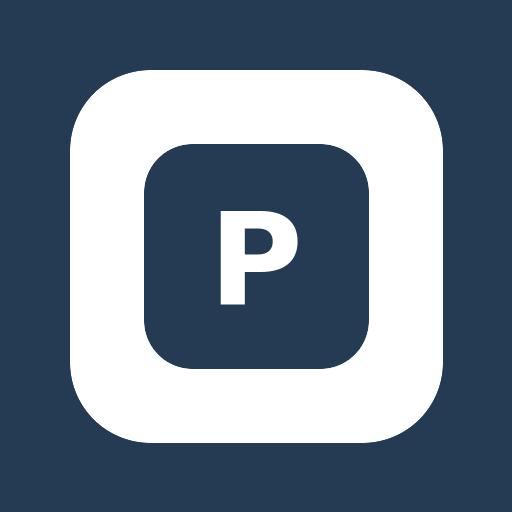
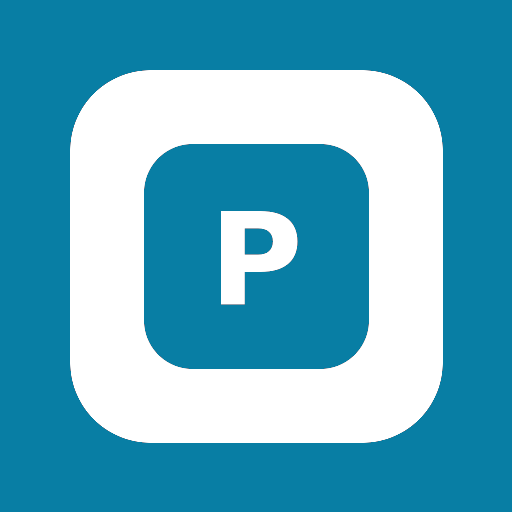
Add files via upload

diff --git a/app.js b/app.js
@@ -77,31 +77,52 @@ function renderHome(){
   const next=pending.slice(0,5), nearest=pending[0];
   const monthPct=a.monthTotal?Math.min(100,Math.round((a.monthPaid/a.monthTotal)*100)):0;
   return `
-  <div class="premium-home">
-    <div class="hero-grid premium-hero-grid">
-      <div class="hero-card luxury-hero">
-        <div class="hero-topline">
-          <div><p class="eyebrow" style="color:#DDE8F1">Total sisa tagihan</p><div class="big-money">${money(a.totalOutstanding)}</div></div>
-          <div class="hero-orb">Rp</div>
-        </div>
-        <div class="hero-bottom">
-          <div class="hero-stats">
-            <span><b>${a.unpaidCount}</b><small>Belum lunas</small></span>
-            <span><b>${a.providersCount}</b><small>Layanan aktif</small></span>
-            <span><b>${monthPct}%</b><small>Bulan ini terbayar</small></span>
-          </div>
-          ${nearest?`<div class="next-mini"><span>Tagihan berikutnya</span><strong>${dateFmt(nearest.dueDate,{day:'numeric',month:'short'})} · ${money(nearest.amount)}</strong></div>`:''}
-        </div>
+  <div class="fintech-home">
+    <section class="wallet-hero">
+      <div class="wallet-headline">
+        <div class="wallet-brand"><span class="wallet-logo">P</span><span>Pinjam</span></div>
+        <span class="wallet-secure">● Tersinkron</span>
       </div>
-      <div class="metric-card premium-metric"><div class="metric-icon">◷</div><div><p class="eyebrow">Bulan ini</p><strong>${money(a.monthTotal)}</strong><p class="muted tiny">${a.monthCount} tagihan</p></div><div class="mini-progress"><i style="width:${monthPct}%"></i></div></div>
-      <div class="metric-card premium-metric"><div class="metric-icon">✓</div><div><p class="eyebrow">Sudah dibayar</p><strong>${money(a.monthPaid)}</strong><p class="muted tiny">Sisa ${money(a.monthUnpaid)}</p></div><span class="metric-badge">${monthPct}%</span></div>
-    </div>
-    ${d.vario?.remaining>0?`<div class="section"><div class="notice premium-notice"><span class="notice-icon">◆</span><div><strong>Vario 160 dicatat terpisah</strong><br>Sisa pokok <b>${money(d.vario.remaining)}</b>. Nilai ini tidak dicampur ke total PayLater/pinjaman agar konsisten dengan spreadsheet Anda.</div></div></div>`:''}
-    <div class="section content-grid premium-content-grid">
-      <div><div class="section-head"><div><h2>Tagihan terdekat</h2><p>Prioritas pembayaran yang perlu diperhatikan.</p></div><button class="link-btn" data-go="bills">Lihat semua</button></div><div class="panel bill-list premium-bill-panel">${next.length?next.map(billRow).join(''):'<div class="empty">Tidak ada tagihan belum lunas.</div>'}</div></div>
-      <div><div class="section-head"><div><h2>Sisa per layanan</h2><p>Komposisi kewajiban aktif.</p></div></div><div class="panel provider-list premium-provider-panel">${providerRows(a.providerOutstanding)}</div></div>
-    </div>
+      <div class="wallet-balance">
+        <span>Total sisa tagihan</span>
+        <strong>${money(a.totalOutstanding)}</strong>
+        <small>${a.unpaidCount} tagihan belum lunas · ${a.providersCount} layanan aktif</small>
+      </div>
+      <div class="wallet-mini-grid">
+        <div><span>Bulan ini</span><strong>${money(a.monthTotal)}</strong></div>
+        <div><span>Sudah dibayar</span><strong>${money(a.monthPaid)}</strong></div>
+        <div><span>Progress</span><strong>${monthPct}%</strong></div>
+      </div>
+      ${nearest?`<div class="wallet-next"><div><span>Tagihan berikutnya</span><strong>${esc(nearest.provider)}</strong></div><div><span>${dateFmt(nearest.dueDate,{day:'numeric',month:'short'})}</span><strong>${money(nearest.amount)}</strong></div></div>`:''}
+    </section>
+
+    <section class="fintech-surface">
+      <div class="finance-shortcuts">
+        <button data-go="bills"><span class="shortcut-icon">▤</span><b>Tagihan</b><small>Lihat semua</small></button>
+        <button id="homeAddBtn"><span class="shortcut-icon">＋</span><b>Tambah</b><small>Pinjaman baru</small></button>
+        <button data-go="stats"><span class="shortcut-icon">⌁</span><b>Statistik</b><small>Proyeksi</small></button>
+        <button data-go="settings"><span class="shortcut-icon">⚙</span><b>Lainnya</b><small>Pengaturan</small></button>
+      </div>
+
+      ${d.vario?.remaining>0?`<div class="vario-strip"><span class="vario-icon">V</span><div><strong>Vario 160 dicatat terpisah</strong><small>Sisa pokok ${money(d.vario.remaining)}</small></div><span class="chev">›</span></div>`:''}
+
+      <div class="section fintech-section">
+        <div class="section-head"><div><h2>Tagihan terdekat</h2><p>Prioritas pembayaran berikutnya.</p></div><button class="link-btn" data-go="bills">Lihat semua</button></div>
+        <div class="transaction-panel">${next.length?next.map(fintechBillRow).join(''):'<div class="empty">Tidak ada tagihan belum lunas.</div>'}</div>
+      </div>
+
+      <div class="section fintech-section">
+        <div class="section-head"><div><h2>Sisa per layanan</h2><p>Komposisi kewajiban aktif.</p></div></div>
+        <div class="provider-fintech-card">${providerRows(a.providerOutstanding)}</div>
+      </div>
+    </section>
   </div>`;
+}
+
+function fintechBillRow(x){
+  const [label,cls]=statusInfo(x), dt=new Date(`${x.dueDate}T00:00:00+08:00`);
+  const dueText=x.daysUntil===0?'Hari ini':x.daysUntil<0?`${Math.abs(x.daysUntil)} hari lewat`:dateFmt(x.dueDate,{day:'numeric',month:'short'});
+  return `<div class="txn-row" data-item="${esc(x.id)}"><div class="txn-date"><b>${dt.getDate()}</b><span>${new Intl.DateTimeFormat('id-ID',{month:'short'}).format(dt).toUpperCase()}</span></div><div class="txn-copy"><strong>${esc(x.provider)}</strong><span>${esc(x.name)} · ${dueText}</span></div><div class="txn-value"><strong>${money(x.amount)}</strong><span class="status ${cls}">${label}</span></div><span class="txn-chevron">›</span></div>`;
 }
 
 function billRow(x){ const [label,cls]=statusInfo(x), dt=new Date(`${x.dueDate}T00:00:00+08:00`); return `<div class="bill-row" data-item="${esc(x.id)}"><div class="date-chip">${dt.getDate()}<small>${new Intl.DateTimeFormat('id-ID',{month:'short'}).format(dt).toUpperCase()}</small></div><div class="bill-main"><strong>${esc(x.provider)}</strong><span>${esc(x.name)}</span></div><div class="bill-money">${money(x.amount)}<small>${x.daysUntil===0?'Hari ini':x.daysUntil<0?`${Math.abs(x.daysUntil)} hari lewat`:dateFmt(x.dueDate,{day:'numeric',month:'short'})}</small></div><span class="status ${cls}">${label}</span></div>`; }
@@ -112,35 +133,53 @@ function renderBills(){
   const providers=[...new Set(items.map(x=>x.provider))].sort();
   const filtered=items.filter(x=>(state.filter.month==='ALL'||monthKey(x.dueDate)===state.filter.month)&&(state.filter.provider==='ALL'||x.provider===state.filter.provider)&&(state.filter.status==='ALL'||(state.filter.status==='PAID'?x.status==='Lunas':x.status!=='Lunas'))).sort((a,b)=>a.dueDate.localeCompare(b.dueDate));
   const total=filtered.reduce((n,x)=>n+Number(x.amount||0),0), paid=filtered.filter(x=>x.status==='Lunas').length, unpaid=filtered.length-paid;
-  return `<div class="bills-page">
-    <div class="bills-summary">
-      <div><span>Tagihan tampil</span><strong>${filtered.length}</strong></div>
-      <div><span>Total nominal</span><strong>${money(total)}</strong></div>
-      <div><span>Lunas</span><strong>${paid}</strong></div>
-      <div><span>Belum lunas</span><strong>${unpaid}</strong></div>
-    </div>
-    <div class="toolbar premium-toolbar"><label class="field-inline">Bulan <select id="monthFilter"><option value="ALL">Semua</option>${months.map(m=>`<option value="${m}" ${m===state.filter.month?'selected':''}>${monthLabel(m)}</option>`).join('')}</select></label><label class="field-inline">Sumber <select id="providerFilter"><option value="ALL">Semua</option>${providers.map(p=>`<option ${p===state.filter.provider?'selected':''}>${esc(p)}</option>`).join('')}</select></label><label class="field-inline">Status <select id="statusFilter"><option value="ALL">Semua</option><option value="UNPAID" ${state.filter.status==='UNPAID'?'selected':''}>Belum lunas</option><option value="PAID" ${state.filter.status==='PAID'?'selected':''}>Lunas</option></select></label></div>
-    <div class="compact-bills">${filtered.length?filtered.map(x=>{const [l,c]=statusInfo(x),dt=new Date(`${x.dueDate}T00:00:00+08:00`);return `<div class="compact-bill" data-item="${esc(x.id)}"><div class="compact-date"><b>${dt.getDate()}</b><span>${new Intl.DateTimeFormat('id-ID',{month:'short'}).format(dt).toUpperCase()}</span></div><div class="compact-main"><strong>${esc(x.provider)}</strong><span>${esc(x.name)}</span></div><div class="compact-amount"><strong>${money(x.amount)}</strong><span>${dateFmt(x.dueDate,{day:'numeric',month:'short'})}</span></div><span class="status ${c}">${l}</span><span class="compact-chevron">›</span></div>`}).join(''):'<div class="panel empty">Tidak ada tagihan pada filter ini.</div>'}</div>
+  return `<div class="fintech-page bills-page-v14">
+    <section class="page-blue-summary">
+      <p class="eyebrow">Ringkasan tagihan</p>
+      <div class="blue-summary-main"><div><span>Total nominal</span><strong>${money(total)}</strong></div><div class="summary-count"><b>${filtered.length}</b><span>tagihan tampil</span></div></div>
+      <div class="summary-inline"><span><b>${paid}</b> lunas</span><span><b>${unpaid}</b> belum lunas</span></div>
+    </section>
+
+    <section class="page-white-surface">
+      <div class="filter-chips">
+        <label><span>Bulan</span><select id="monthFilter"><option value="ALL">Semua</option>${months.map(m=>`<option value="${m}" ${m===state.filter.month?'selected':''}>${monthLabel(m)}</option>`).join('')}</select></label>
+        <label><span>Sumber</span><select id="providerFilter"><option value="ALL">Semua</option>${providers.map(p=>`<option ${p===state.filter.provider?'selected':''}>${esc(p)}</option>`).join('')}</select></label>
+        <label><span>Status</span><select id="statusFilter"><option value="ALL">Semua</option><option value="UNPAID" ${state.filter.status==='UNPAID'?'selected':''}>Belum lunas</option><option value="PAID" ${state.filter.status==='PAID'?'selected':''}>Lunas</option></select></label>
+      </div>
+      <div class="transaction-panel bills-transactions">${filtered.length?filtered.map(fintechBillRow).join(''):'<div class="empty">Tidak ada tagihan pada filter ini.</div>'}</div>
+    </section>
   </div>`;
 }
+
 function monthLabel(m){const [y,mo]=m.split('-');return new Intl.DateTimeFormat('id-ID',{month:'long',year:'numeric'}).format(new Date(+y,+mo-1,1));}
 
 function renderLoans(){
   const groups=state.data.groups||[];
-  return `<div class="loans-page"><div class="section-head premium-page-head"><div><p class="eyebrow">Portofolio</p><h2>Semua pinjaman</h2><p>Dikelompokkan berdasarkan nama pinjaman/tagihan.</p></div><button id="addLoanBtn" class="btn primary">＋ Tambah</button></div><div class="premium-loan-grid">${groups.map(g=>{const pct=g.total?Math.min(100,Math.round(g.paid/g.total*100)):0;return `<div class="premium-loan-card" data-group="${esc(g.key)}"><div class="loan-card-top"><div class="provider-monogram">${esc((g.provider||'P').charAt(0).toUpperCase())}</div><div class="loan-title"><h3>${esc(g.name)}</h3><p>${esc(g.provider)}</p></div><span class="kind-pill">${g.kind==='dynamic'?'Dinamis':'Tetap'}</span></div><div class="loan-balance"><span>Sisa kewajiban</span><strong>${money(g.outstanding)}</strong></div><div class="loan-progress-row"><div class="loan-ring" style="--p:${pct}"><span>${pct}%</span></div><div class="loan-progress-info"><strong>${g.paid} dari ${g.total} lunas</strong><span>${g.nextDue?`Jatuh tempo berikutnya ${dateFmt(g.nextDue,{day:'numeric',month:'short'})}`:'Semua cicilan selesai'}</span></div></div><div class="premium-progress"><i style="width:${pct}%"></i></div><div class="loan-card-foot"><span>${g.total-g.paid} tersisa</span><span>Buka detail <b>›</b></span></div></div>`}).join('')||'<div class="panel empty">Belum ada pinjaman.</div>'}</div></div>`;
+  const totalOutstanding=groups.reduce((n,g)=>n+Number(g.outstanding||0),0);
+  const active=groups.filter(g=>Number(g.outstanding||0)>0).length;
+  return `<div class="fintech-page loans-v14">
+    <section class="page-blue-summary loans-summary-blue"><p class="eyebrow">Portofolio pinjaman</p><div class="blue-summary-main"><div><span>Total kewajiban aktif</span><strong>${money(totalOutstanding)}</strong></div><div class="summary-count"><b>${active}</b><span>aktif</span></div></div><button id="addLoanBtn" class="blue-inline-action">＋ Tambah pinjaman</button></section>
+    <section class="page-white-surface loan-surface">
+      <div class="section-head"><div><h2>Semua pinjaman</h2><p>Ketuk item untuk melihat detail cicilan.</p></div></div>
+      <div class="finance-loan-list">${groups.map(g=>{const pct=g.total?Math.min(100,Math.round(g.paid/g.total*100)):0;return `<div class="finance-loan-row" data-group="${esc(g.key)}"><div class="loan-provider-icon">${esc((g.provider||'P').charAt(0).toUpperCase())}</div><div class="loan-row-copy"><div><strong>${esc(g.name)}</strong><span>${esc(g.provider)} · ${g.kind==='dynamic'?'Dinamis':'Cicilan tetap'}</span></div><div class="loan-row-progress"><i style="width:${pct}%"></i></div><small>${g.paid}/${g.total} lunas${g.nextDue?` · berikutnya ${dateFmt(g.nextDue,{day:'numeric',month:'short'})}`:''}</small></div><div class="loan-row-value"><strong>${money(g.outstanding)}</strong><span>${pct}%</span></div><span class="txn-chevron">›</span></div>`}).join('')||'<div class="empty">Belum ada pinjaman.</div>'}</div>
+    </section>
+  </div>`;
 }
 
 function renderStats(){
   const a=state.data.analytics; const monthly=a.monthlyProjection||[]; const max=Math.max(...monthly.map(x=>x.amount),1);
   const providers=Object.entries(a.providerOutstanding||{}).sort((x,y)=>y[1]-x[1]), biggest=providers[0];
-  return `<div class="stats-page">
-    <div class="stats-hero"><div><p class="eyebrow" style="color:#DDE8F1">Ringkasan finansial</p><span>Total sisa tagihan</span><strong>${money(a.totalOutstanding)}</strong><small>Di luar Vario 160</small></div><div class="stats-hero-deco">↗</div></div>
-    <div class="stat-kpi-grid">
-      <div class="stat-kpi"><span class="stat-icon">◆</span><div><p>Bulan terberat</p><strong>${a.heaviestMonth?monthLabel(a.heaviestMonth.month):'-'}</strong><small>${a.heaviestMonth?money(a.heaviestMonth.amount):''}</small></div></div>
-      <div class="stat-kpi"><span class="stat-icon">↘</span><div><p>Mulai lebih ringan</p><strong>${a.lighterMonth?monthLabel(a.lighterMonth.month):'-'}</strong><small>${a.lighterMonth?money(a.lighterMonth.amount):'Belum terdeteksi'}</small></div></div>
-      <div class="stat-kpi"><span class="stat-icon">◎</span><div><p>Layanan terbesar</p><strong>${biggest?esc(biggest[0]):'-'}</strong><small>${biggest?money(biggest[1]):''}</small></div></div>
-    </div>
-    <div class="section content-grid stats-content-grid"><div><div class="section-head"><div><h2>Proyeksi cicilan</h2><p>Tagihan belum lunas per bulan.</p></div></div><div class="panel chart-bars premium-chart">${monthly.map(x=>`<div class="chart-row"><span>${monthLabel(x.month).replace(/ \d{4}$/,'')}</span><div class="chart-track"><i style="width:${x.amount/max*100}%"></i></div><strong>${money(x.amount)}</strong></div>`).join('')||'<div class="empty">Tidak ada proyeksi.</div>'}</div></div><div><div class="section-head"><div><h2>Komposisi</h2><p>Sisa kewajiban per layanan.</p></div></div><div class="panel provider-list premium-provider-panel">${providerRows(a.providerOutstanding)}</div></div></div>
+  return `<div class="fintech-page stats-v14">
+    <section class="page-blue-summary stats-blue">
+      <p class="eyebrow">Ringkasan finansial</p>
+      <div class="blue-summary-main"><div><span>Total sisa tagihan</span><strong>${money(a.totalOutstanding)}</strong><small>Di luar Vario 160</small></div><div class="summary-orb">↗</div></div>
+      <div class="stats-mini-strip"><div><span>Bulan terberat</span><b>${a.heaviestMonth?monthLabel(a.heaviestMonth.month):'-'}</b><small>${a.heaviestMonth?money(a.heaviestMonth.amount):''}</small></div><div><span>Mulai lebih ringan</span><b>${a.lighterMonth?monthLabel(a.lighterMonth.month):'-'}</b><small>${a.lighterMonth?money(a.lighterMonth.amount):'Belum terdeteksi'}</small></div><div><span>Layanan terbesar</span><b>${biggest?esc(biggest[0]):'-'}</b><small>${biggest?money(biggest[1]):''}</small></div></div>
+    </section>
+
+    <section class="page-white-surface stats-surface">
+      <div class="section fintech-section"><div class="section-head"><div><h2>Proyeksi cicilan</h2><p>Tagihan belum lunas per bulan.</p></div></div><div class="projection-card">${monthly.map(x=>`<div class="projection-row"><span>${monthLabel(x.month).replace(/ \d{4}$/,'')}</span><div class="projection-track"><i style="width:${x.amount/max*100}%"></i></div><strong>${money(x.amount)}</strong></div>`).join('')||'<div class="empty">Tidak ada proyeksi.</div>'}</div></div>
+      <div class="section fintech-section"><div class="section-head"><div><h2>Komposisi layanan</h2><p>Sisa kewajiban per layanan.</p></div></div><div class="provider-fintech-card">${providerRows(a.providerOutstanding)}</div></div>
+    </section>
   </div>`;
 }
 
@@ -154,7 +193,7 @@ function attachViewEvents(){
   qs('#monthFilter')?.addEventListener('change',e=>{state.filter.month=e.target.value;render()});
   qs('#providerFilter')?.addEventListener('change',e=>{state.filter.provider=e.target.value;render()});
   qs('#statusFilter')?.addEventListener('change',e=>{state.filter.status=e.target.value;render()});
-  qs('#addLoanBtn')?.addEventListener('click',openAddLoan); qs('#syncNowBtn')?.addEventListener('click',()=>refresh(true)); qs('#updateSpayBtn')?.addEventListener('click',()=>openPaylaterUpdate('Shopee Paylater')); qs('#logoutBtn')?.addEventListener('click',()=>signOut(auth)); qs('#saveReminderBtn')?.addEventListener('click',saveReminderSettings);
+  qs('#addLoanBtn')?.addEventListener('click',openAddLoan); qs('#homeAddBtn')?.addEventListener('click',openAddLoan); qs('#syncNowBtn')?.addEventListener('click',()=>refresh(true)); qs('#updateSpayBtn')?.addEventListener('click',()=>openPaylaterUpdate('Shopee Paylater')); qs('#logoutBtn')?.addEventListener('click',()=>signOut(auth)); qs('#saveReminderBtn')?.addEventListener('click',saveReminderSettings);
   qsa('[data-group]').forEach(x=>x.onclick=()=>openGroup(x.dataset.group));
 }
 

diff --git a/styles.css b/styles.css
@@ -614,3 +614,169 @@ html,body{
   .bills-summary strong{font-size:13px}
   .hero-stats{gap:10px}
 }
+
+/* =========================================================
+   V1.4 BLUE FINTECH UI
+   Inspired by modern wallet/fintech hierarchy, original layout.
+   ========================================================= */
+:root{
+  --brand:#087EA4;
+  --brand-2:#19B9D8;
+  --brand-3:#075B83;
+  --brand-soft:#E8F7FB;
+  --brand-soft-2:#DDF4FA;
+  --bg:#F2F4F7;
+  --bg-elev:#F7F9FB;
+  --card:#FFFFFF;
+  --text:#20262C;
+  --muted:#7A838B;
+  --line:#E2E7EB;
+  --line-2:#EDF0F2;
+  --shadow:0 14px 34px rgba(20,58,77,.08);
+  --shadow-soft:0 8px 22px rgba(20,58,77,.05);
+}
+html,body{background:var(--bg);color:var(--text)}
+body{background:linear-gradient(180deg,#E8F3F8 0,#F2F4F7 260px,#F2F4F7 100%)}
+.brand-mark,.avatar{background:linear-gradient(145deg,#087EA4,#19B9D8);box-shadow:0 10px 24px rgba(8,126,164,.24)}
+.btn.primary{background:linear-gradient(135deg,#087EA4,#19B9D8);box-shadow:0 10px 22px rgba(8,126,164,.22)}
+.btn.secondary{background:#E8F7FB;color:#075B83}
+.side-nav button.active{background:#E6F5FA;color:#075B83;box-shadow:inset 0 0 0 1px #CDEAF4}
+.side-nav button:hover{background:#F0F9FC;color:#075B83}
+.link-btn{color:#087EA4}
+.progress i,.premium-progress i,.provider-row .bar i,.chart-track i,.mini-progress i{background:linear-gradient(90deg,#087EA4,#19B9D8)}
+.metric-icon,.stat-icon,.provider-monogram{background:#E8F7FB!important;border-color:#CEEAF3!important;color:#075B83!important}
+.status.upcoming{background:#F1F5F7;color:#64717A;border-color:#E0E6EA}
+
+/* desktop shell */
+.sidebar{background:rgba(255,255,255,.95);border-right:1px solid #E1E7EB}
+.topbar{background:linear-gradient(110deg,#066B95 0%,#087EA4 55%,#11A7C9 100%);border-bottom:0;color:#fff;box-shadow:0 10px 28px rgba(8,92,128,.14)}
+.topbar .eyebrow{color:#C7ECF6}
+.topbar .icon-btn{background:rgba(255,255,255,.12);border-color:rgba(255,255,255,.24);color:#fff;box-shadow:none}
+.topbar .avatar{background:#fff;color:#075B83;box-shadow:none}
+.view-container{max-width:1480px;padding-top:20px}
+
+/* Fintech page primitives */
+.fintech-page,.fintech-home{animation:fintechIn .24s ease both}
+@keyframes fintechIn{from{opacity:.62;transform:translateY(4px)}to{opacity:1;transform:none}}
+.wallet-hero,.page-blue-summary{
+  position:relative;overflow:hidden;
+  color:#fff;
+  background:
+    linear-gradient(115deg,rgba(255,255,255,.055) 1px,transparent 1px) 0 0/34px 34px,
+    linear-gradient(25deg,rgba(255,255,255,.04) 1px,transparent 1px) 0 0/44px 44px,
+    radial-gradient(circle at 88% 18%,rgba(81,219,244,.38),transparent 28%),
+    linear-gradient(130deg,#066A94 0%,#087EA4 48%,#0BA4C9 100%);
+  box-shadow:0 20px 42px rgba(7,91,131,.18)
+}
+.wallet-hero{border-radius:30px;padding:26px 28px;min-height:300px;display:flex;flex-direction:column;gap:22px}
+.wallet-headline{display:flex;justify-content:space-between;align-items:center;position:relative;z-index:1}
+.wallet-brand{display:flex;align-items:center;gap:9px;font-weight:900;font-size:17px}
+.wallet-logo{width:32px;height:32px;border-radius:11px;background:#fff;color:#087EA4;display:grid;place-items:center;font-size:15px}
+.wallet-secure{padding:7px 11px;border-radius:999px;background:rgba(0,68,101,.22);border:1px solid rgba(255,255,255,.14);font-size:11px;color:#DFF6FB;font-weight:800;backdrop-filter:blur(6px)}
+.wallet-balance{display:grid;gap:6px;position:relative;z-index:1}
+.wallet-balance>span{font-size:12px;color:#CDEEF6;font-weight:700}
+.wallet-balance>strong{font-size:clamp(36px,5vw,54px);line-height:1;letter-spacing:-.055em}
+.wallet-balance>small{font-size:12px;color:#DDF5FA}
+.wallet-mini-grid{display:grid;grid-template-columns:repeat(3,minmax(0,1fr));gap:10px;position:relative;z-index:1}
+.wallet-mini-grid>div{padding:12px 13px;border-radius:17px;background:rgba(1,75,107,.28);border:1px solid rgba(255,255,255,.15);backdrop-filter:blur(7px);display:grid;gap:4px}
+.wallet-mini-grid span{font-size:10px;color:#CEF0F7}
+.wallet-mini-grid strong{font-size:14px;white-space:nowrap;overflow:hidden;text-overflow:ellipsis}
+.wallet-next{display:flex;justify-content:space-between;gap:14px;align-items:center;padding:12px 14px;border-radius:17px;background:rgba(255,255,255,.12);border:1px solid rgba(255,255,255,.16);position:relative;z-index:1}
+.wallet-next>div{display:grid;gap:3px}.wallet-next>div:last-child{text-align:right}
+.wallet-next span{font-size:10px;color:#D4F1F8}.wallet-next strong{font-size:13px}
+
+.fintech-surface,.page-white-surface{background:#F5F7F9;border-radius:30px;padding:22px;margin-top:16px;border:1px solid #E7EBEE}
+.finance-shortcuts{display:grid;grid-template-columns:repeat(4,minmax(0,1fr));gap:12px;background:#fff;border-radius:25px;padding:16px;box-shadow:var(--shadow-soft);border:1px solid #E8ECEF}
+.finance-shortcuts button{border:0;background:transparent;display:grid;place-items:center;gap:5px;color:#36434A;padding:8px 4px;border-radius:16px;transition:.18s ease}
+.finance-shortcuts button:hover{background:#F0F9FC;color:#075B83}
+.shortcut-icon{width:42px;height:42px;border-radius:15px;background:#E8F7FB;color:#087EA4;display:grid;place-items:center;font-size:20px;font-weight:900}
+.finance-shortcuts b{font-size:12px}.finance-shortcuts small{font-size:9px;color:#8B949A}
+.vario-strip{margin-top:14px;background:#fff;border:1px solid #E6EBEE;border-radius:20px;padding:13px 15px;display:grid;grid-template-columns:40px 1fr auto;gap:11px;align-items:center;box-shadow:0 5px 14px rgba(20,58,77,.03)}
+.vario-icon{width:38px;height:38px;border-radius:13px;background:#E8F7FB;color:#087EA4;display:grid;place-items:center;font-weight:900}
+.vario-strip div{display:grid;gap:3px}.vario-strip strong{font-size:13px}.vario-strip small{font-size:11px;color:var(--muted)}.chev{font-size:24px;color:#A1ADB4}
+.fintech-section{margin-top:24px}.fintech-section .section-head{margin-bottom:10px}.fintech-section .section-head h2{font-size:19px}
+
+/* Wallet-like transaction list */
+.transaction-panel{background:#fff;border-radius:24px;border:1px solid #E5EAED;overflow:hidden;box-shadow:var(--shadow-soft)}
+.txn-row{display:grid;grid-template-columns:48px minmax(0,1fr) auto 18px;gap:12px;align-items:center;padding:13px 15px;min-height:78px;border-bottom:1px solid #EDF0F2;transition:.16s ease;cursor:pointer}
+.txn-row:last-child{border-bottom:0}.txn-row:hover{background:#F7FCFD}
+.txn-date{width:46px;height:50px;border-radius:15px;background:#E8F7FB;display:grid;place-items:center;align-content:center;gap:3px;color:#075B83;border:1px solid #D3ECF4}
+.txn-date b{font-size:17px;line-height:1}.txn-date span{font-size:9px;font-weight:900;color:#678999}
+.txn-copy{min-width:0;display:grid;gap:4px}.txn-copy strong{font-size:14px;white-space:nowrap;overflow:hidden;text-overflow:ellipsis}.txn-copy>span{font-size:10px;color:#858F95;white-space:nowrap;overflow:hidden;text-overflow:ellipsis}
+.txn-value{text-align:right;display:grid;justify-items:end;gap:6px}.txn-value>strong{font-size:14px;letter-spacing:-.02em;white-space:nowrap}.txn-value .status{padding:5px 8px;font-size:9px}
+.txn-chevron{color:#9BA9B0;font-size:22px;line-height:1}
+.provider-fintech-card{background:#fff;border-radius:24px;border:1px solid #E5EAED;padding:17px;box-shadow:var(--shadow-soft)}
+.provider-fintech-card .provider-row .bar{height:7px;background:#EAF0F3}
+
+/* page blue summary */
+.page-blue-summary{border-radius:28px;padding:24px 26px;min-height:180px;display:grid;align-content:space-between;gap:16px}
+.page-blue-summary .eyebrow{color:#CDEFF7}
+.blue-summary-main{display:flex;justify-content:space-between;align-items:flex-end;gap:20px;position:relative;z-index:1}
+.blue-summary-main>div:first-child{display:grid;gap:5px}.blue-summary-main span{font-size:11px;color:#D5F1F8}.blue-summary-main strong{font-size:clamp(28px,4vw,42px);letter-spacing:-.045em;line-height:1}.blue-summary-main small{color:#D8F2F8;font-size:10px}
+.summary-count{width:86px;height:74px;border-radius:20px;background:rgba(255,255,255,.13);border:1px solid rgba(255,255,255,.18);display:grid;place-items:center;align-content:center;text-align:center}.summary-count b{font-size:23px}.summary-count span{font-size:9px}
+.summary-inline{display:flex;gap:22px;font-size:11px;color:#D9F3F8;position:relative;z-index:1}.summary-inline b{color:#fff;font-size:15px;margin-right:4px}
+.summary-orb{width:68px;height:68px;border-radius:21px;background:rgba(255,255,255,.13);border:1px solid rgba(255,255,255,.19);display:grid;place-items:center;font-size:25px}
+.blue-inline-action{justify-self:start;border:1px solid rgba(255,255,255,.25);background:rgba(255,255,255,.12);color:#fff;padding:10px 13px;border-radius:14px;font-weight:800}
+
+/* filters as compact wallet controls */
+.filter-chips{display:flex;gap:9px;flex-wrap:wrap;margin-bottom:12px}
+.filter-chips label{min-width:160px;flex:1;background:#fff;border:1px solid #E1E8EB;border-radius:16px;padding:8px 11px;display:grid;gap:2px}
+.filter-chips label span{font-size:9px;text-transform:uppercase;letter-spacing:.08em;color:#8B969C;font-weight:900}
+.filter-chips select{border:0;outline:0;background:transparent;color:#2D373D;font-size:12px;font-weight:800;width:100%}
+.bills-transactions{box-shadow:none}
+
+/* Loans wallet list */
+.loan-surface{padding-top:18px}
+.finance-loan-list{background:#fff;border:1px solid #E4E9EC;border-radius:24px;overflow:hidden;box-shadow:var(--shadow-soft)}
+.finance-loan-row{display:grid;grid-template-columns:48px minmax(0,1fr) auto 18px;gap:12px;align-items:center;padding:14px 15px;border-bottom:1px solid #EDF0F2;min-height:94px;cursor:pointer;transition:.16s ease}.finance-loan-row:last-child{border-bottom:0}.finance-loan-row:hover{background:#F8FCFD}
+.loan-provider-icon{width:46px;height:46px;border-radius:15px;background:linear-gradient(145deg,#DDF5FB,#BFEAF5);color:#087EA4;display:grid;place-items:center;font-weight:900}
+.loan-row-copy{min-width:0;display:grid;gap:7px}.loan-row-copy>div:first-child{display:grid;gap:2px}.loan-row-copy strong{font-size:14px;white-space:nowrap;overflow:hidden;text-overflow:ellipsis}.loan-row-copy span{font-size:10px;color:#899399;white-space:nowrap;overflow:hidden;text-overflow:ellipsis}
+.loan-row-progress{height:5px;border-radius:99px;background:#EAF0F3;overflow:hidden}.loan-row-progress i{display:block;height:100%;background:linear-gradient(90deg,#087EA4,#19B9D8);border-radius:99px}.loan-row-copy small{font-size:9px;color:#899399}
+.loan-row-value{text-align:right;display:grid;gap:4px}.loan-row-value strong{font-size:13px;white-space:nowrap}.loan-row-value span{font-size:10px;color:#087EA4;font-weight:900}
+
+/* Stats */
+.stats-blue{min-height:260px}.stats-mini-strip{display:grid;grid-template-columns:repeat(3,1fr);gap:9px;position:relative;z-index:1}.stats-mini-strip>div{background:rgba(0,72,105,.23);border:1px solid rgba(255,255,255,.14);border-radius:16px;padding:11px;display:grid;gap:3px;min-width:0}.stats-mini-strip span{font-size:9px;color:#CDECF4}.stats-mini-strip b{font-size:12px;white-space:nowrap;overflow:hidden;text-overflow:ellipsis}.stats-mini-strip small{font-size:9px;color:#D8F2F8;white-space:nowrap;overflow:hidden;text-overflow:ellipsis}
+.projection-card{background:#fff;border:1px solid #E5EAED;border-radius:24px;padding:16px;box-shadow:var(--shadow-soft);display:grid;gap:13px}.projection-row{display:grid;grid-template-columns:86px minmax(80px,1fr) 110px;gap:12px;align-items:center;font-size:11px}.projection-track{height:8px;border-radius:99px;background:#EAF0F3;overflow:hidden}.projection-track i{height:100%;display:block;background:linear-gradient(90deg,#087EA4,#19B9D8);border-radius:99px}.projection-row strong{text-align:right;font-size:11px}
+
+/* Modal/forms harmonized */
+.modal-card{border-radius:27px;border:1px solid #E4EAED}.field input:focus,.field select:focus,.field-inline:focus-within{border-color:#72CDE0;box-shadow:0 0 0 4px rgba(25,185,216,.12)}
+.notice:not(.warn):not(.danger){background:#ECF9FC;border-color:#CFEDF4;color:#315C69}.notice strong{color:#214650}
+
+/* bottom navigation */
+.bottom-nav{background:rgba(255,255,255,.97);border-top:1px solid #E2E8EB;box-shadow:0 -8px 24px rgba(20,58,77,.07)}
+.bottom-nav button{color:#6F7C83}.bottom-nav button.active{color:#087EA4}.bottom-nav .quick-add span{background:linear-gradient(145deg,#087EA4,#20BAD9);box-shadow:0 10px 22px rgba(8,126,164,.30)}
+
+@media(max-width:760px){
+  html,body{background:#F2F4F7}
+  body{background:#F2F4F7}
+  .topbar{height:118px;align-items:flex-start;padding:18px 18px 14px;background:
+    linear-gradient(115deg,rgba(255,255,255,.05) 1px,transparent 1px) 0 0/32px 32px,
+    linear-gradient(120deg,#066A94 0%,#087EA4 58%,#0AA5C8 100%);box-shadow:none;border-radius:0}
+  .topbar .eyebrow{font-size:9px;color:#C9EDF6;margin-top:4px}.topbar h1{font-size:24px;color:#fff;margin-top:4px}.topbar .icon-btn{background:rgba(255,255,255,.12);border-color:rgba(255,255,255,.18);color:#fff}.topbar .avatar{background:#fff;color:#087EA4}
+  .view-container{padding:0 0 98px;margin-top:-1px;max-width:none;background:#F2F4F7}
+  .wallet-hero,.page-blue-summary{border-radius:0;padding-left:18px;padding-right:18px;box-shadow:none}
+  .wallet-hero{min-height:296px;padding-top:8px;padding-bottom:34px;gap:18px}
+  .wallet-headline{display:none}
+  .wallet-balance>strong{font-size:34px}.wallet-balance>small{font-size:10px}
+  .wallet-mini-grid{gap:7px}.wallet-mini-grid>div{padding:10px 9px;border-radius:14px}.wallet-mini-grid span{font-size:8px}.wallet-mini-grid strong{font-size:11px}
+  .wallet-next{padding:10px 12px;border-radius:14px}.wallet-next span{font-size:8px}.wallet-next strong{font-size:11px}
+  .fintech-surface,.page-white-surface{margin-top:-22px;border-radius:34px 34px 0 0;border:0;padding:20px 15px 24px;position:relative;z-index:3;background:#F3F5F7}
+  .finance-shortcuts{padding:13px 10px;gap:5px;border-radius:27px}.finance-shortcuts button{padding:6px 1px}.shortcut-icon{width:40px;height:40px;border-radius:14px;font-size:18px}.finance-shortcuts b{font-size:10px}.finance-shortcuts small{font-size:8px}
+  .vario-strip{border-radius:18px;padding:11px 12px}.vario-icon{width:34px;height:34px}.vario-strip strong{font-size:11px}.vario-strip small{font-size:9px}
+  .fintech-section{margin-top:20px}.fintech-section .section-head h2{font-size:17px}.fintech-section .section-head p{font-size:11px}.link-btn{font-size:12px}
+  .transaction-panel{border-radius:22px}.txn-row{grid-template-columns:44px minmax(0,1fr) auto 12px;gap:9px;padding:11px 11px;min-height:72px}.txn-date{width:42px;height:46px;border-radius:14px}.txn-date b{font-size:15px}.txn-copy strong{font-size:12px}.txn-copy>span{font-size:9px}.txn-value>strong{font-size:12px}.txn-value .status{font-size:8px;padding:4px 6px}.txn-chevron{font-size:19px}
+  .provider-fintech-card{border-radius:22px;padding:14px}.provider-row strong,.provider-row span{font-size:11px}
+  .page-blue-summary{min-height:200px;padding-top:8px;padding-bottom:36px}.blue-summary-main strong{font-size:28px}.summary-count{width:72px;height:64px;border-radius:18px}.summary-count b{font-size:19px}.summary-inline{font-size:9px}.summary-inline b{font-size:13px}
+  .filter-chips{display:grid;grid-template-columns:1fr 1fr;gap:7px}.filter-chips label{min-width:0;padding:8px 10px;border-radius:14px}.filter-chips label:last-child{grid-column:1/-1}.filter-chips select{font-size:11px}.filter-chips label span{font-size:8px}
+  .finance-loan-row{grid-template-columns:42px minmax(0,1fr) auto 12px;gap:9px;padding:12px 11px;min-height:84px}.loan-provider-icon{width:40px;height:40px;border-radius:14px}.loan-row-copy strong{font-size:12px}.loan-row-copy span{font-size:9px}.loan-row-value strong{font-size:11px}.loan-row-value span{font-size:9px}.loan-row-copy small{font-size:8px}
+  .stats-blue{min-height:275px}.stats-mini-strip{gap:6px}.stats-mini-strip>div{padding:9px 8px;border-radius:13px}.stats-mini-strip span{font-size:7px}.stats-mini-strip b{font-size:9px}.stats-mini-strip small{font-size:7px}
+  .projection-card{padding:13px;border-radius:21px}.projection-row{grid-template-columns:66px minmax(60px,1fr) 90px;gap:8px;font-size:9px}.projection-row strong{font-size:9px}
+  .bottom-nav{height:76px;padding:7px 8px calc(9px + env(safe-area-inset-bottom))}.bottom-nav button small{font-size:9px}.bottom-nav .quick-add span{width:50px;height:50px;border-radius:18px;margin-top:-20px}
+}
+
+@media(max-width:420px){
+  .wallet-balance>strong{font-size:30px}
+  .wallet-mini-grid strong{font-size:10px}
+  .txn-value>strong{max-width:108px;overflow:hidden;text-overflow:ellipsis}
+  .stats-mini-strip{grid-template-columns:1fr}.stats-blue{min-height:340px}
+}

diff --git a/sw.js b/sw.js
@@ -14,7 +14,7 @@ importScripts('./config.js');
 importScripts('https://www.gstatic.com/firebasejs/12.18.0/firebase-app-compat.js');
 importScripts('https://www.gstatic.com/firebasejs/12.18.0/firebase-messaging-compat.js');
 
-const CACHE = 'pinjam-shell-v1.3.0';
+const CACHE = 'pinjam-shell-v1.4.0';
 const ASSETS = ['./','index.html','styles.css','app.js','api.js','config.js','manifest.webmanifest','icons/icon-192.png','icons/icon-512.png'];
 const cfg = self.PINJAM_CONFIG || {};
 

diff --git a/index.html b/index.html
@@ -3,7 +3,7 @@
 <head>
   <meta charset="utf-8" />
   <meta name="viewport" content="width=device-width, initial-scale=1, viewport-fit=cover" />
-  <meta name="theme-color" content="#243B53" />
+  <meta name="theme-color" content="#087EA4" />
   <meta name="description" content="Pinjam — pengelola cicilan pribadi." />
   <meta name="robots" content="noindex,nofollow,noarchive" />
   <title>Pinjam</title>
